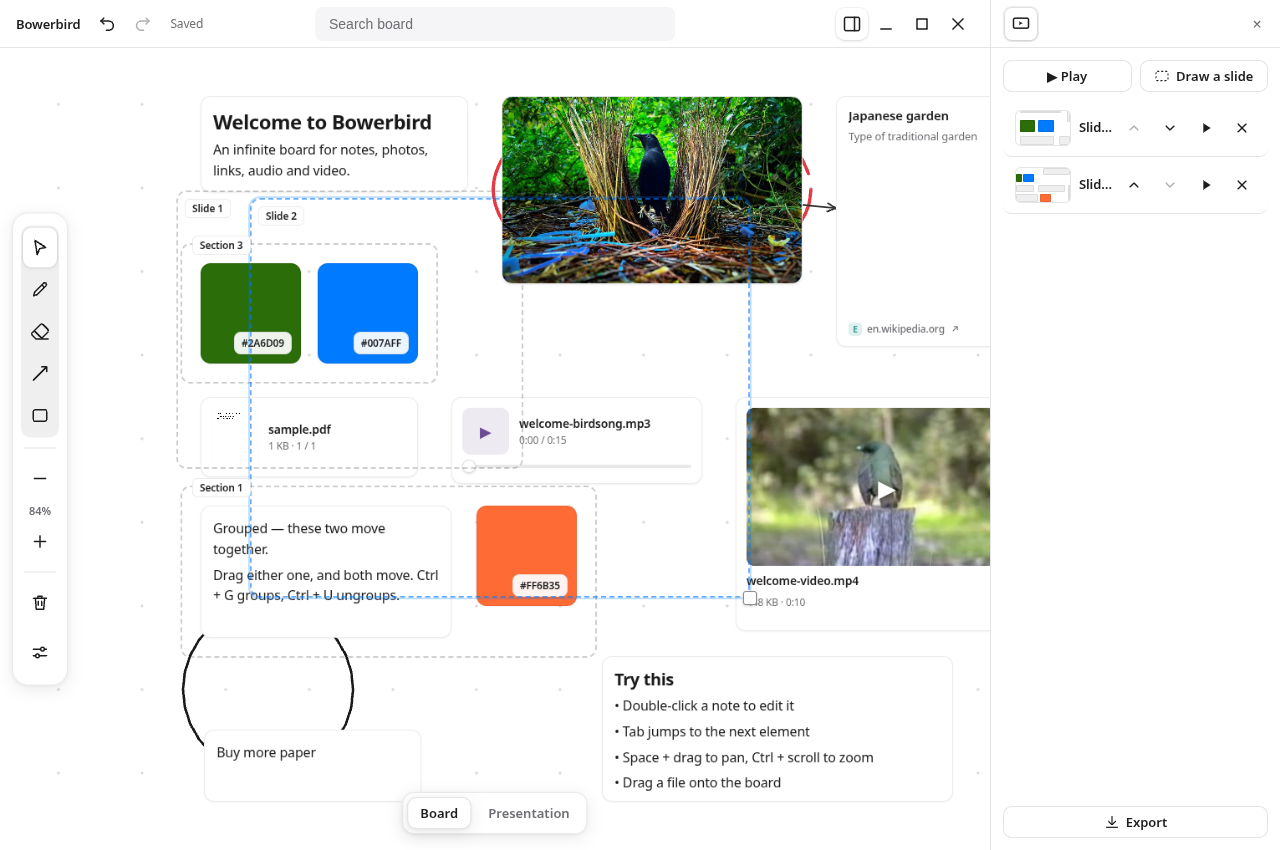
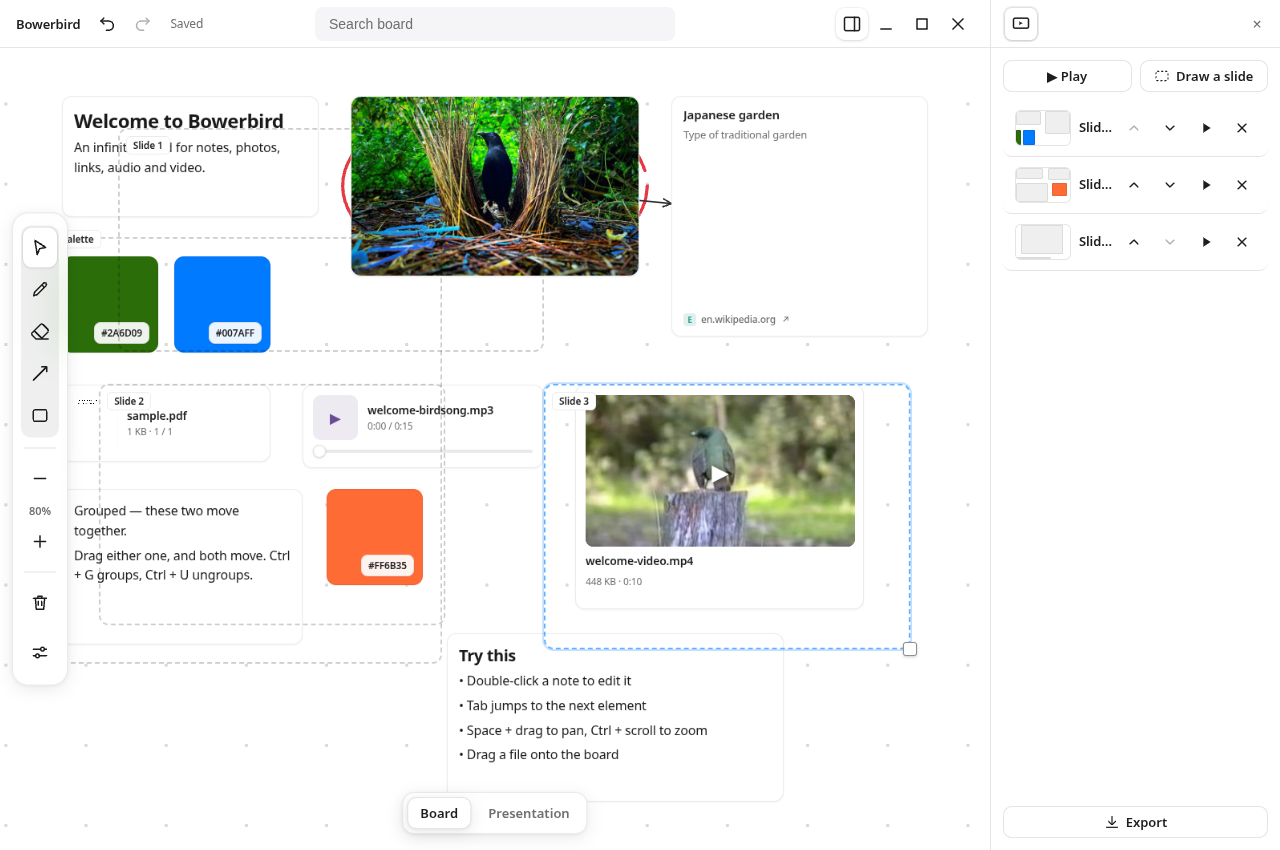
Re-capture README tour media to the user's direction

diff --git a/README.md b/README.md
@@ -12,29 +12,29 @@ Link cards are previews only. They do not embed web pages.
 
 The board. Notes, photos, links, audio, video and colour cards on an infinite canvas.
 
-![Sketching with the pen](screenshots/pen-sketch.gif)
+![Drawing with the pen](screenshots/pen-sketch.gif)
 
-Sketch with the pen.
+Draw with the pen.
 
-![Double-click to add a note](screenshots/create-note.gif)
+![Double-click to add notes](screenshots/create-note.gif)
 
-Double-click anywhere to add a note.
+Double-click anywhere to add notes.
 
-![Selecting two cards and grouping them](screenshots/group-cards.gif)
+![Grouping cards and renaming the group](screenshots/group-cards.gif)
 
-Select cards and group them with Ctrl+G. They move together.
+Select cards, group them with Ctrl+G, and rename the group.
 
-![Panning and zooming the board](screenshots/pan-zoom.gif)
+![Panning and zooming a board full of cards](screenshots/pan-zoom.gif)
 
-Space + drag to pan, = to zoom in.
+Space + drag to pan, = to zoom in — across a board full of cards.
 
 ![The command palette listing actions and cards](screenshots/command-palette.png)
 
 Ctrl+K opens the command palette. It lists every action and jumps to any card.
 
-![A slide drawn over part of the board](screenshots/presentation.png)
+![Slides drawn over parts of the board](screenshots/presentation.png)
 
-Draw a slide over part of the board and present it.
+Draw slides over parts of the board and present them.
 
 ## Run it
 
